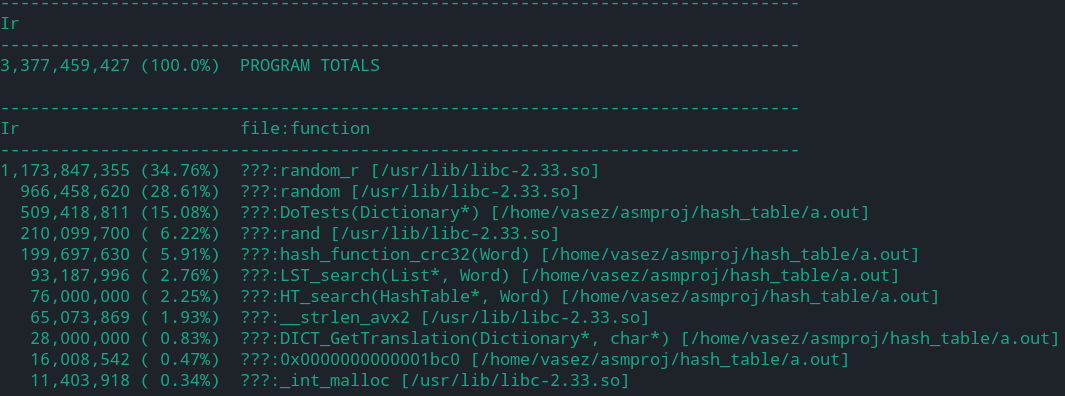
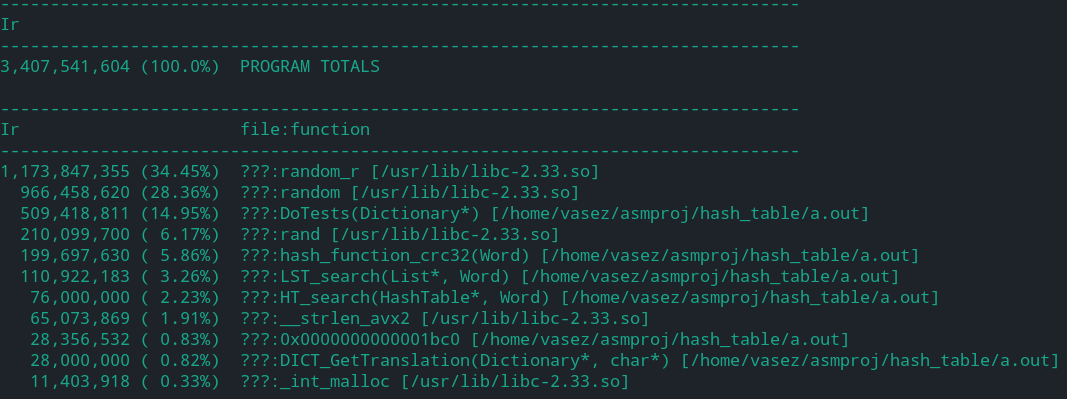
now hf asm

diff --git a/hash_functions.cpp b/hash_functions.cpp
@@ -77,6 +77,38 @@ size_t hash_function_rol(Word word) {
 //     }
 // }
 
+// asm(".intel_syntax noprefix\n"
+// ".globl hash_function_crc32\n"
+//     ".type hash_function_crc32, @function\n"
+//     "hash_function_crc32:\n"
+//     "xor rax, rax\n"
+//     "xor rdx, rdx\n"
+//     "push rdi\n"
+//     "call strlen@PLT\n"
+//     "mov edx, eax\n"
+//     "pop rdi\n"
+//     "xor rax, rax\n"
+//     "crcloop:\n"
+//         "cmp rdx, 8\n"
+//         "jae Crc64\n"
+//         "crclooplow:"
+//         "cmp rdx, 0\n"
+//         "je crcloopexit\n"
+//         "crc32 rax, byte ptr [rdi]\n"
+//         "inc rdi\n"
+//         "dec rdx\n"
+//         "jmp crclooplow\n"
+//         "Crc64:\n"
+//         "crc32 rax, qword ptr [rdi]\n"
+//         "add rdi, 8\n"
+//         "sub rdx, 8\n"
+//         "jmp crcloop\n"
+//     "crcloopexit:\n"
+//     //"xor rax, rax\n"
+//     "ret\n"
+//     ".att_syntax noprefix\n"
+// );
+
 size_t hash_function_crc32(Word word) {
     uint32_t crc_ans = 0;
     int length = strlen(word.word);
@@ -84,5 +116,6 @@ size_t hash_function_crc32(Word word) {
     for (int i = 0; i < length; ++i) {
         crc_ans = _mm_crc32_u8(crc_ans, data[i]);
     }
+    //printf("%zu %zu\n", crc_ans,  hash_function_crc32_1(word));
     return crc_ans;
 }

diff --git a/hash_table.cpp b/hash_table.cpp
@@ -26,16 +26,16 @@ void HT_Destroy(HashTable* table) {
 }
 
 value_type HT_search(HashTable* table, value_type find_value) {
-    // printf("ht: getting translation\n");
+    //printf("ht: getting translation %s\n", find_value.word);
     key_type find_hash = table->hash_function(find_value) % table->length;
-    // printf("ht: got hash function\n");
+    //printf("ht: got %zu\n", find_hash);
     return LST_search(table->array[find_hash], find_value);
 }
 
 void HT_add(HashTable* table, value_type add_value) {
+    //printf("ht: adding translation %s\n", add_value.word);
     key_type add_hash = table->hash_function(add_value) % table->length;
-    // printf("hash got\n");
-    // printf("%zu\n", add_hash);
+    //printf("ht: got %zu\n", add_hash);
     LST_add(table->array[add_hash], add_value);
 }
 

diff --git a/list.cpp b/list.cpp
@@ -28,10 +28,13 @@ void LST_Destroy(List* list) {
 }
 
 value_type LST_search(List* list, value_type value) {
-    // printf("list: getting trans\n");
+    //printf("searching for %s kek %zu lol\n", value.word, list->length);
     for (size_t i = 0; i < list->length; ++i) {
+        //printf("%d\n",(int)list->equality_function({"luck", NULL}, value));
+        //printf("%d\n",(int)list->equality_function({"luck", NULL}, list->array[0]));
+        //printf("%d\n",(int)list->equality_function(list->array[i], value));
+        //printf("bruh %zu %s\n", i,  list->array[i].word);
         if (list->equality_function(list->array[i], value)) {
-            // printf("yeah equality\n");
             return list->array[i];
         }
     }

diff --git a/translation.cpp b/translation.cpp
@@ -11,19 +11,20 @@ asm(".intel_syntax noprefix\n"
 ".globl words_equal\n"
     ".type words_equal, @function\n"
     "words_equal:\n"
+    "xor rcx, rcx\n"
     "StrcmpLoop:\n"
-        "mov bl, byte [rdi]\n"
-        "mov bh, byte [rdx]\n"
-        "cmp bl, bh\n"
+        "xor rcx, rcx\n"
+        "mov cl, byte ptr [rdi]\n"
+        "cmp cl, byte ptr [rdx]\n"
         "jne LoopExit\n"
-        "cmp bl, 0\n"
         "inc rdi\n"
         "inc rdx\n"
+        "cmp cl, 0\n"
         "jne StrcmpLoop\n"
-        "mov rax, 1\n"
+        "mov rax, 0xffff\n"
         "ret\n"
     "LoopExit:\n"
-    //"xor rax, rax\n"
+    "xor rax, rax\n"
     "ret\n"
     ".att_syntax noprefix\n"
 );

diff --git a/hash_functions.h b/hash_functions.h
@@ -11,6 +11,7 @@ size_t hash_function_first_ascii(Word word);
 size_t hash_function_sum_ascii(Word word);
 size_t hash_function_ror(Word word);
 size_t hash_function_rol(Word word);
+//extern "C" size_t hash_function_crc32(Word word);
 size_t hash_function_crc32(Word word);
 
 #endif
